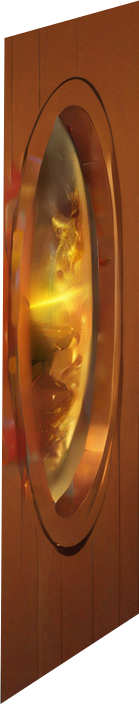
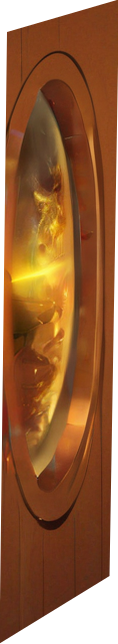
rust

diff --git a/farmer-school-bevy/src/components/views/sound.rs b/farmer-school-bevy/src/components/views/sound.rs
@@ -15,10 +15,13 @@ use crate::model::welcome::*;
 use bevy::audio::{AudioSource, PlaybackMode, Volume};
 
 fn load_resources(
-    asset_server: Res<AssetServer>,
     config: Res<Config>,
     mut data: ResMut<SoundData>,
+    asset_server: Res<AssetServer>,
 ) {
+    if config.debug_without_sound {
+        return;
+    }
     let track = asset_server.load(config.base_path.join("sounds/ready/track_1.ogg"));
     data.tracks.push((track.clone(), 20., 0.));
     let track = asset_server.load(config.base_path.join("sounds/ready/track_2.ogg"));
@@ -60,6 +63,9 @@ fn play_track(
     config: Res<Config>,
     mut data: ResMut<SoundData>,
 ) {
+    if config.debug_without_sound {
+        return;
+    }
     let now = time.elapsed_seconds_f64();
     let (_, duration, started_at) = data
         .tracks
@@ -80,8 +86,12 @@ fn play_track(
 
 fn listen_reset(
     mut data: ResMut<SoundData>,
+    config: Res<Config>,
     mut reset_game_step1_events: EventReader<ResetGameStep1Event>,
 ) {
+    if config.debug_without_sound {
+        return;
+    }
     if let Some(e) = reset_game_step1_events.read().last() {
         data.teacher_tired = TeacherTired::new(&e.teachers);
     }
@@ -89,6 +99,8 @@ fn listen_reset(
 
 fn listen_reactions(
     mut commands: Commands,
+    config: Res<Config>,
+    mut data: ResMut<SoundData>,
     mut invalid_action_station_events: EventReader<InvalidActionStationEvent>,
     mut teacher_ate_events: EventReader<TeacherAteEvent>,
     mut cooked_events: EventReader<CookedEvent>,
@@ -98,8 +110,11 @@ fn listen_reactions(
     mut taught_events: EventReader<TaughtEvent>,
     mut student_welcomed_events: EventReader<StudentWelcomedEvent>,
     mut recruit_student_events: EventReader<RecruitStudentEvent>,
-    mut data: ResMut<SoundData>,
 ) {
+    if config.debug_without_sound {
+        return;
+    }
+
     let mut play_reaction = |teacher: Teacher, reaction: Reaction| {
         let (h, duration) = data
             .reactions
@@ -160,9 +175,14 @@ fn listen_reactions(
 
 fn listen_monster_attack(
     mut commands: Commands,
-    mut portal_attacked_events: EventReader<PortalAttackedEvent>,
+    config: Res<Config>,
     mut data: ResMut<SoundData>,
+    mut portal_attacked_events: EventReader<PortalAttackedEvent>,
 ) {
+    if config.debug_without_sound {
+        return;
+    }
+
     if portal_attacked_events.read().last().is_some() {
         data.monsters_last_used_index += 1;
         if data.monsters_last_used_index as usize == data.monsters.len() {
@@ -180,8 +200,12 @@ fn listen_monster_attack(
 fn listen_events_teacher_tired(
     time: Res<Time>,
     mut data: ResMut<SoundData>,
+    config: Res<Config>,
     mut teacher_tired_events: EventReader<TeacherTiredEvent>,
 ) {
+    if config.debug_without_sound {
+        return;
+    }
     for e in teacher_tired_events.read() {
         let now = time.elapsed_seconds_f64();
         data.teacher_tired

diff --git a/farmer-school-bevy/src/components/views/portal.rs b/farmer-school-bevy/src/components/views/portal.rs
@@ -1,5 +1,4 @@
 use std::collections::HashMap;
-use std::num::Wrapping;
 
 use bevy::prelude::*;
 
@@ -132,7 +131,7 @@ fn load_windows(
     data.needs.insert((2, 1), e);
     let e = place_need(&mut commands, &mut data, (-710., 10.), 0.62);
     data.needs.insert((2, 2), e);
-    let e = place_window(&mut commands, &mut data, (-709., 120.), (0.63, 0.64));
+    let e = place_window(&mut commands, &mut data, (-707., 118.), (0.65, 0.63));
     data.windows.insert(2, e);
 
     let e = place_need(&mut commands, &mut data, (-790., 200.), 0.69);
@@ -141,7 +140,7 @@ fn load_windows(
     data.needs.insert((3, 1), e);
     let e = place_need(&mut commands, &mut data, (-790., -60.), 0.69);
     data.needs.insert((3, 2), e);
-    let e = place_window(&mut commands, &mut data, (-800., 70.), (0.69, 0.69));
+    let e = place_window(&mut commands, &mut data, (-792., 76.), (0.66, 0.69));
     data.windows.insert(3, e);
 }
 
@@ -215,7 +214,8 @@ fn place_window(
                 },
                 ..default()
             },
-            visibility: Visibility::Hidden,
+            // visibility: Visibility::Hidden, //FIXME
+            visibility: Visibility::Visible,
             ..default()
         })
         .id()
@@ -383,16 +383,10 @@ fn should_redraw_monster(monster_new: &Option<&Monster>, monster_old: &Option<&M
 
 fn display_attack_progress(
     time: Res<Time>,
-    config: Res<Config>,
     mut data: ResMut<PortalData>,
     mut query: Query<(&mut Handle<Image>, &mut Visibility)>,
 ) {
     if !data.component_ready.listen_data_events {
-        return;
-    }
-
-    data.frame += Wrapping(1);
-    if !data.frame.0 % config.draw_frame_modulo != 0 {
         return;
     }
 
@@ -576,7 +570,6 @@ struct PortalData {
     health: i8,
 
     component_ready: ComponentReady,
-    frame: Wrapping<i8>,
 }
 
 impl PortalData {
@@ -597,7 +590,6 @@ impl PortalData {
             attack_progress: Vec::new(),
             attack_progress_next_s: 0.,
             attack_progress_reset_s: 0.,
-            frame: Wrapping(0),
             component_ready: ComponentReady::default(),
         }
     }

diff --git a/farmer-school-bevy/src/components/views/teacher.rs b/farmer-school-bevy/src/components/views/teacher.rs
@@ -1,4 +1,4 @@
-use std::{collections::HashMap, num::Wrapping};
+use std::collections::HashMap;
 
 use bevy::prelude::*;
 
@@ -485,7 +485,6 @@ fn listen_events_teacher_tired(
 
 fn draw(
     time: Res<Time>,
-    config: Res<Config>,
     mut data: ResMut<TeacherData>,
     mut query: Query<(&mut Handle<Image>, &mut Visibility)>,
 ) {
@@ -493,10 +492,7 @@ fn draw(
         return;
     }
 
-    //to display some parts, we need to iterate a lot.
-    //but it is ok to do it only every few frames
-    data.frame += Wrapping(1);
-    if !data.dirty && data.frame.0 % config.draw_frame_modulo != 0 {
+    if !data.dirty {
         return;
     }
     let now = time.elapsed_seconds_f64();
@@ -611,7 +607,6 @@ struct TeacherData {
     component_ready: ComponentReady,
     dirty: bool,
     direction_last: Vec2,
-    frame: Wrapping<i8>,
     display_reaction_until: HashMap<(Teacher, Station, Reaction), (f64, Entity)>,
     display_path_until: HashMap<(Teacher, Station, Station), (f64, Entity)>,
 }
@@ -627,7 +622,6 @@ impl TeacherData {
             teacher_tired: TeacherTired::default(),
             dirty: false,
             direction_last: Vec2::ZERO,
-            frame: Wrapping(0),
             display_reaction_until: HashMap::new(),
             display_path_until: HashMap::new(),
             component_ready: ComponentReady::default(),

diff --git a/farmer-school-bevy/src/main.rs b/farmer-school-bevy/src/main.rs
@@ -46,6 +46,7 @@ fn main() {
         debug_start_game_immediately: false,
         debug_disable_student_eating: false,
         debug_disable_season_monster: false,
+        debug_without_sound: false,
     };
 
     if env::var("SEASON_SCHOLARS_DEV").is_ok() {
@@ -61,6 +62,9 @@ fn main() {
     }
     if env::var("SEASON_SCHOLARS_DEV_NO_SEASON_MONSTER").is_ok() {
         c.debug_disable_season_monster = true;
+    }
+    if env::var("SEASON_SCHOLARS_DEV_WITHOUT_SOUND").is_ok() {
+        c.debug_without_sound = true;
     }
     let mut window_mode = WindowMode::Fullscreen;
     if env::var("SEASON_SCHOLARS_DEV_NO_FULLSCREEN").is_ok() {

diff --git a/farmer-school-bevy/src/model/config.rs b/farmer-school-bevy/src/model/config.rs
@@ -27,4 +27,5 @@ pub struct Config {
     pub debug_start_game_immediately: bool,
     pub debug_disable_student_eating: bool,
     pub debug_disable_season_monster: bool,
+    pub debug_without_sound: bool,
 }

diff --git a/farmer-school-bevy/src/components/controllers/overlord.rs b/farmer-school-bevy/src/components/controllers/overlord.rs
@@ -186,6 +186,8 @@ fn listen_events_menu(
             &mut data,
             reset_game_step1_events,
         );
+
+        data.teachers.clear();
     }
 
     if changed {
